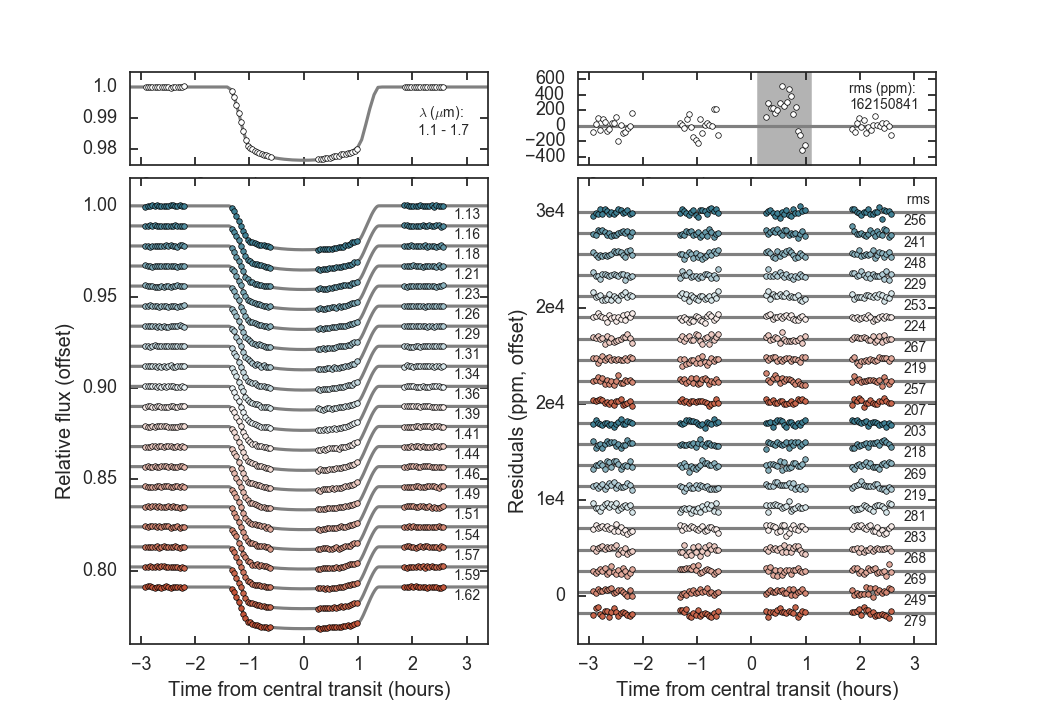
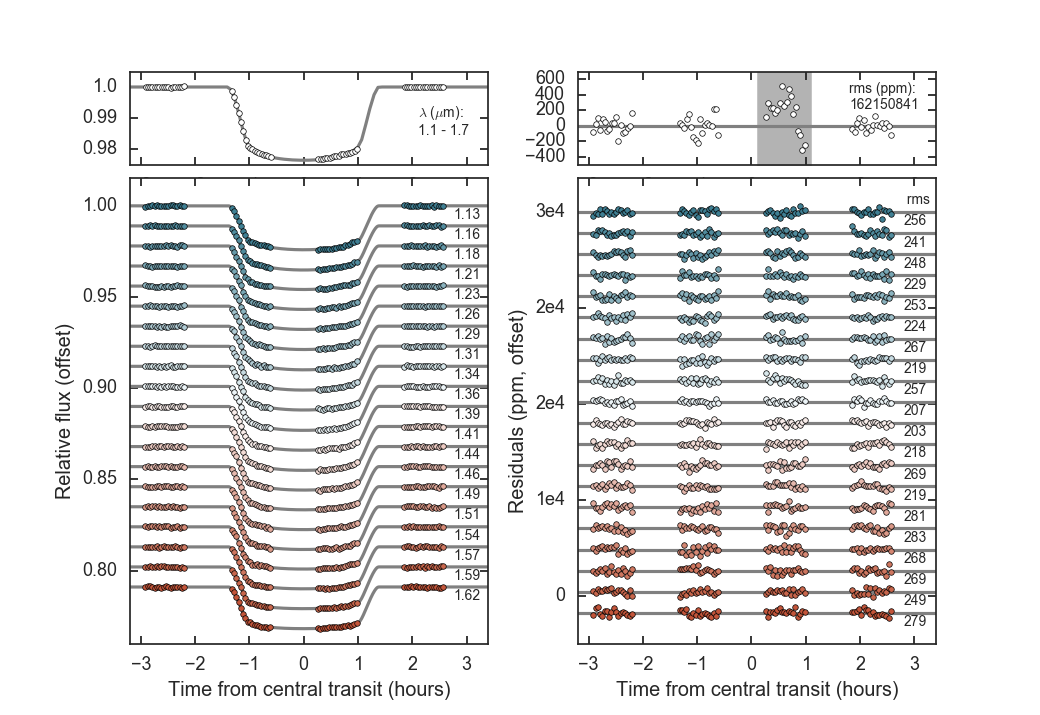
fixing FIXMEs

diff --git a/ms.tex b/ms.tex
@@ -24,6 +24,7 @@
 %%
 %% using aastex version 6.1
 \documentclass[twocolumn]{aastex61}
+\usepackage{natbib}
 
 %% The default is a single spaced, 10 point font, single spaced article.
 %% There are 5 other style options available via an optional argument. They
@@ -120,7 +121,7 @@
 %%
 %% If you wish, you may supply running head information, although
 %% this information may be modified by the editorial offices.
-\shorttitle{\aastex\ Atmosphere of WASP-107b}
+\shorttitle{\aastex\ Atmosphere of WASP-107\lowercase{b}}
 \shortauthors{Kreidberg et al.}
 %%
 %% You can add a light gray and diagonal water-mark to the first page 
@@ -138,7 +139,7 @@
 
 \begin{document}
 
-\title{Water, High-Altitude Condensates, and No Methane in the Atmosphere of the Warm Neptune WASP-107b}
+\title{Water, High-Altitude Condensates, and No Methane in the Atmosphere of the Warm Neptune WASP-107\lowercase{b}}
 
 %% LaTeX will automatically break titles if they run longer than
 %% one line. However, you may use \\ to force a line break if
@@ -263,25 +264,35 @@ WASP-107b is baller.
 \section{Introduction} \label{sec:intro}
 
 \section{Observations}
-We observed a single transit of WASP-107b with HST's Wide Field Camera 3 (WFC3) instrument on UT 5-6 June 2017.  The transit observation consisted of five HST orbits. At the beginning of each 96-minute orbit, we took an image of the target with the F130N filter (exposure time = 4.2 s). This direct image is used for wavelength calibration. For the remainder of the target visibility period (about 45 minutes), we obtained time series spectra with the G141 grism, which provides low-resolution spectroscopy over the wavelength range $1.1 - 1.7\,\mu$m.  We used the NSAMP=6, SPARS\_25 readout mode (exposure time = 112 s) to optimize the efficiency of the observations, as determined by the \texttt{PandExo\_HST} planning tool\footnote{https://github.com/spacetelescope/PandExo\_HST}.  As is standard for observations of bright targets, we used the spatial scanning observing mode, which smears the spectrum in the spatial direction over the course of an exposure. The scan rate was FIXME arcseconds/sec.
+We observed a single transit of WASP-107b with HST's Wide Field Camera 3 (WFC3) instrument on UT 5-6 June 2017.  The transit observation consisted of five HST orbits. At the beginning of each 96-minute orbit, we took an image of the target with the F130N filter (exposure time = 4.2 s). This direct image is used for wavelength calibration. For the remainder of the target visibility period (about 45 minutes), we obtained time series spectra with the G141 grism, which provides low-resolution spectroscopy over the wavelength range $1.1 - 1.7\,\mu$m.  We used the NSAMP=6, SPARS\_25 readout mode (exposure time = 112 s) to optimize the efficiency of the observations, as determined by the \texttt{PandExo\_HST} planning tool\footnote{https://github.com/spacetelescope/PandExo\_HST}.  As is standard for observations of bright targets, we used the spatial scanning observing mode, which smears the spectrum in the spatial direction over the course of an exposure. The scan rate was 0.12 arcseconds/sec.
 
 
 \section{Data Reduction}
-We reduced the data with the custom pipeline described in FIXME, which we summarize briefly here. For each exposure, we extracted the spectrum from each up-the-ramp sample (or ``stripe") separately using the optimal extraction algorithm of \citep{horne86}. The stripe spectra were then summed to create the final spectrum. For each stripe, the extraction box was 80 pixels high and centered on the stripe's midpoint in the spatial direction. To correct the change in dispersion solution over the length of the spatial scan, we interpolated each row to the wavelength scale of the row corresponding to the spectral trace. We also corrected for slight drift in the spectral direction (FIXME pixels) by interpolating each the first exposure.  To subtract the background, we took the median of sky pixels that were uncontaminated by the target spectrum (rows $5-250$, columns $5-15$). The typical background counts were low: 40 photoelectrons/pixel, in comparison to $3\times10^4$ photoelectrons/pixel in the stellar spectrum.
+We reduced the data with the custom pipeline described in \cite{kreidberg14a}, which we summarize briefly here. For each exposure, we extracted the spectrum from each up-the-ramp sample (or ``stripe") separately using the optimal extraction algorithm of \citep{horne86}. The stripe spectra were then summed to create the final spectrum. For each stripe, the extraction box was 80 pixels high and centered on the stripe's midpoint in the spatial direction. To correct the change in dispersion solution over the length of the spatial scan, we interpolated each row to the wavelength scale of the row corresponding to the spectral trace. We also corrected for slight drift in the spectral direction ($<0.1$ pixels) by interpolating each the first exposure.  To subtract the background, we took the median of sky pixels that were uncontaminated by the target spectrum (rows $5-250$, columns $5-15$). The typical background counts were low: 40 photoelectrons/pixel, in comparison to $3\times10^4$ photoelectrons/pixel in the stellar spectrum.
+%dispersion solution: 46 Angstroms/pixel. max drift: 3 angstroms (from diagnostics.txt)
 
 \section{Analysis}
 The data analysis had two parts: the band-integrated ``white" light curve fit and the spectroscopic light curve fits.
 
 \subsection{White Light Curve Fit}
-To create the raw white light curve, we summed each spectrum over the FIXME pixels in the spectral trace.  The white light curve has systematic trends that are typical for WFC3 observations \cite{zhou17}: the flux increases increases asymptotically over each orbit (the ``ramp" effect) and there is a visit-long linear trend. The largest ramp occurs in the initial orbit (orbit zero), so we only fit data from orbits one through four in our analysis, following common practice.  We fit the light curve with the analytic model of the form $F_\mathrm{white}(t) = S_\mathrm{white}(t)\times T_\mathrm{white}(t)$, where $S$ is a systematics model and $T$ is a transit model. We used the same systematics model as FIXME, equation FIXME.  To model the transit, we used the \texttt{batman} package \citep{kreidberg15b}.  The transit model parameters are the orbital period $p$, time of FIXME $t_c$, transit depth $r_p/r_s$, ratio of semi-major axis to stellar radius $a/r_s$, orbital inclination $i$, and the quadratic stellar limb darkening parameters $u_1$ and $u_2$.
+To create the raw white light curve, we summed each spectrum over the 181 pixels in the spectral trace.  The white light curve has systematic trends that are typical for WFC3 observations \cite{zhou17}: the flux increases increases asymptotically over each orbit (the ``ramp" effect) and there is a visit-long linear trend. The largest ramp occurs in the initial orbit (orbit zero), so we only fit data from orbits one through four in our analysis, following common practice.  We fit the light curve with the analytic model of the form $F_\mathrm{white}(t) = S_\mathrm{white}(t)\times T_\mathrm{white}(t)$, where $S_\mathrm{white}$ is a systematics model and $T_\mathrm{white}$ is a transit model. We used the same systematics model as \cite{kreidberg15b}, Equation 1.  To model the transit, we used the \texttt{batman} package \citep{kreidberg15b}.  The transit model parameters are the orbital period $p$, time of inferior conjunction $t_0$, transit depth $r_p/r_s$, ratio of semi-major axis to stellar radius $a/r_s$, orbital inclination $i$, and the quadratic stellar limb darkening parameters $u_1$ and $u_2$.
+
+\begin{figure*}
+\includegraphics[width = \textwidth]{Figures/lc.pdf}
+\caption{FIXME}
+\label{fig:lc}
+\end{figure*}
 
 \subsubsection{Star Spot Crossing}
-In our initial fit, we allowed all the transit parameters to vary freely. We noticed two odd results: first, there was a slight increase in flux during orbit three, and second, the transit parameters were inconsistent with the precise analysis of the Kepler light curve from \cite{dai17}.  We conjectured that the anomalies could be due to a star-spot crossing event in orbit three, as WASP-107 is an active star and spot crossings have been observed before FIXME. To test this idea, we gave the data in orbit three no weight in the fit. For this case, the transit parameters agree well with those of \cite{dai17} and the spot-crossing feature is more pronounced (see Figure FIXME). The amplitude of the feature is FIXME ppm, consistent with a spot of FIXME size and temperature (cf dai17 FIXME).  We conclude that the feature is indeed due to a spot crossing.
+In our initial analysis, we noticed a bump in the light curve during orbit three that could not be fit with our model. We attribute this feature to a star spot crossing event, as WASP-107 is an active star and spot crossings have been observed before \citep{dai17, mocnik17}. In our subsequent analysis, we gave the data in orbit three no weight in the fit. The amplitude of the spot crossing feature is FIXME ppm, consistent with a spot of FIXME size and temperature.
+
+%In our initial fit, we allowed all the transit parameters to vary freely. We noticed two odd results: first, there was a slight increase in flux during orbit three, and second, the transit parameters were inconsistent with the analysis of the precise Kepler data from \cite{dai17}.  We conjectured that the anomalies could be due to a star-spot crossing event in orbit three, as WASP-107 is an active star and spot crossings have been observed before FIXME. To test this idea, we gave the data in orbit three no weight in the fit. For this case, the transit parameters agree well with those of \cite{dai17} and the spot-crossing feature is more pronounced (see Figure FIXME). The amplitude of the feature is FIXME ppm, consistent with a spot of FIXME size and temperature (cf dai17 FIXME).  We conclude that the feature is indeed due to a spot crossing.
 
 \subsubsection{Final Fit}
-In our final fit, we fixed the transit parameters $a/r_s$, $i$, $p$ on the values from \cite{dai17}.  We also fixed the limb darkening parameters on predictions from a PHOENIX model for a star of FIXME properties, calculated with the FIXME package.  The model values are consistent with what we obtain from fitting for the limb darkening coefficients as free parameters. The remaining free parameters were $t_c$, $r_p/r_s$, and the systematics parameters for the visit-long and orbit-long trends.
+In our final fit, we fixed the transit parameters $a/r_s$, $i$, $p$ on the precise estimates from the Kepler light curve \cite{dai17}.  We also fixed the limb darkening parameters on predictions from a PHOENIX model for a star of FIXME properties, calculated with the FIXME package.  The remaining free parameters were $t_0$, $r_p/r_s$, and the systematics parameters for the visit-long and orbit-long trends.
+%The model values are consistent with what we obtain from fitting for the limb darkening coefficients as free parameters. 
 
-For the best fit light curve, the root-mean-square residuals were FIXME ppm (not including orbit three), compared to the expected shot noise of FIXME ppm. The achieved rms is close to the best value obtained for WFC3 data (FIXME), and we attribute the slight excess noise to either additional star spot crossings or loss of flux from the edge of the detector \citep[as has been seen for other bright targets;][]{FIXME}. We used the Markov chain Monte Carlo algorithm to estimate parameter uncertainties (as implemented in the the \texttt{emcee} package; FIXME). We scaled the per-point uncertainties by a factor of FIXME to achieve a reduced $\chi_2$ value of unity. The transit time was FIXME and the planet/star radius was FIXME.
+For the best fit light curve, the root-mean-square residuals were FIXME ppm (not including orbit three), somewhat larger than the expected shot noise of FIXME ppm. The achieved rms is close to the best value obtained for WFC3 data (FIXME), and we attribute the slight excess noise to either additional star spot crossings or loss of flux from the edge of the detector \citep[as has been seen for other bright targets;][]{FIXME}. We used the Markov chain Monte Carlo algorithm to estimate parameter uncertainties (as implemented in the the \texttt{emcee} package; FIXME). We scaled the per-point uncertainties by a factor of FIXME to achieve a reduced $\chi_2$ value of unity. The transit time was FIXME and the planet/star radius was FIXME.
 
 \subsection{Spectroscopic Light Curve Fits}
 We binned the spectrum into 20 spectrophotometric channels from FIXME to FIXME $\mu$m, shown in Figure FIXME. We fit the light curves with the \texttt{divide-white} technique, which assumes that the light curve systematics are nearly constant as a function of wavelength \citep{stevenson??, kreidberg14a}. For this method, the transit model $T_\lambda(t)$ is multiplied by the systematics vector from the white light curve fit ($F_\mathrm{white}/T_\mathrm{white}$), and rescaled by a factor $C_\lambda + V_\lambda t$.  An advantage of this approach is that it removes the star spot crossing feature, enabling us to use orbit three with no additional correction. There is a small chromatic effect due to the changing amplitude of the spot crossing feature with wavelength, but this effect is below the level of noise in our data FIXME.  As for the white light curve, we fixed some of the transit parameters on the estimates from \cite{dai17} and fixed the limb darkening on the PHOENIX model. The fit has just three free parameters: $C_\lambda$, $V_\lambda$, and $r_p/r_s$.  
@@ -337,10 +348,10 @@ L.R.K. acknowledges support from the Harvard Society of Fellows and the Harvard 
 %% the manusscript. Authors should list each code and include either a
 %% citation or url to the code inside ()s when available.
 
-\software{astropy \citep{2013A&A...558A..33A},  
-          Cloudy \citep{2013RMxAA..49..137F}, 
-          SExtractor \citep{1996A&AS..117..393B}
-          }
+%\software{astropy \citep{2013A&A...558A..33A},  
+%          Cloudy \citep{2013RMxAA..49..137F}, 
+%          SExtractor \citep{1996A&AS..117..393B}
+%          }
 
 %% Appendix material should be preceded with a single \appendix command.
 %% There should be a \section command for each appendix. Mark appendix

diff --git a/Figures/plot_lc.py b/Figures/plot_lc.py
@@ -83,12 +83,10 @@ ax4 = plt.subplot(gs[1,1])
 #ax4 = ax3.twinx()
 
 rms = []
-sns.set_palette(sns.diverging_palette(220, 20, n=20))
+#sns.set_palette(sns.diverging_palette(220, 20, n=20))
+c = sns.diverging_palette(220, 20, n=20)
 ax4.text(2.8, 800,' rms', fontsize=10)
-#ax3.text(-3.5, 1,'$\lambda$ ($\mu$m)', fontsize=10)
 for i, f in enumerate(files):
-	sns.set_palette(sns.diverging_palette(220, 20, n=20))
-	#plt.plot(model.phase*per*24., np.ones_like(model.resid), color='0.5') 
 	p = pickle.load(open(f, 'rb'))
 	data, model = p[0], p[1]
 	ind = model.phase > 0.5
@@ -96,22 +94,20 @@ for i, f in enumerate(files):
 	
 	offset = -0.0022*float(i)*1e6
 	plt.axhline(offset, color ='0.5')
-	plt.plot(model.phase*per*24., model.resid/data.flux*1e6 + offset, marker='.', ms = 8, linestyle = 'None', markeredgecolor='k', markeredgewidth=0.5)
-#	ax4.text(-3.5, offset-1, '{0:0.2f}'.format(data.wavelength), fontsize=10)
+	plt.plot(model.phase*per*24., model.resid/data.flux*1e6 + offset, marker='.', ms = 8, linestyle = 'None', markeredgecolor='k', markeredgewidth=0.5, color = c[i])
 	ax4.text(2.8, offset - 1400, '{0:d}'.format(int(model.rms)), fontsize=10)
 	rms.append(model.rms)
 	ax4.plot(model.phase*per*24., np.ones_like(model.phase)*data.wavelength, linewidth=0.)
 	ax4.set_xlim(-3.2, 3.4)
-	#ax4.set_ylim(-4.5, .35)
 	ax4.set_ylim(-45000, 3500)
 	ax4.yaxis.set_major_locator(FixedLocator(np.array([-40000, -30000, -20000, -10000, 0])))
 	plt.gca().set_yticklabels(["0", "1e4", "2e4", "2e4", "3e4"])
 	ax4.set_xlabel("Time from central transit (hours)")
 	ax4.set_ylabel("Residuals (ppm, offset)") 
-	#ax4.set_ylabel("Wavelength ($\mu$m)")
 
 
 print "mean, median rms:", np.mean(np.array(rms)), np.median(np.array(rms))
 
 plt.savefig("lc.png")
+plt.savefig("lc.pdf")
 plt.show()
